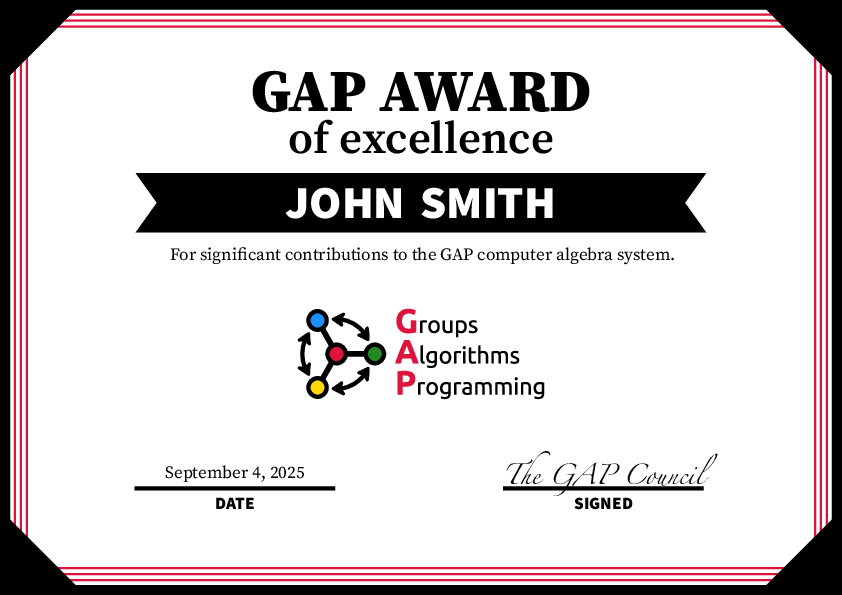
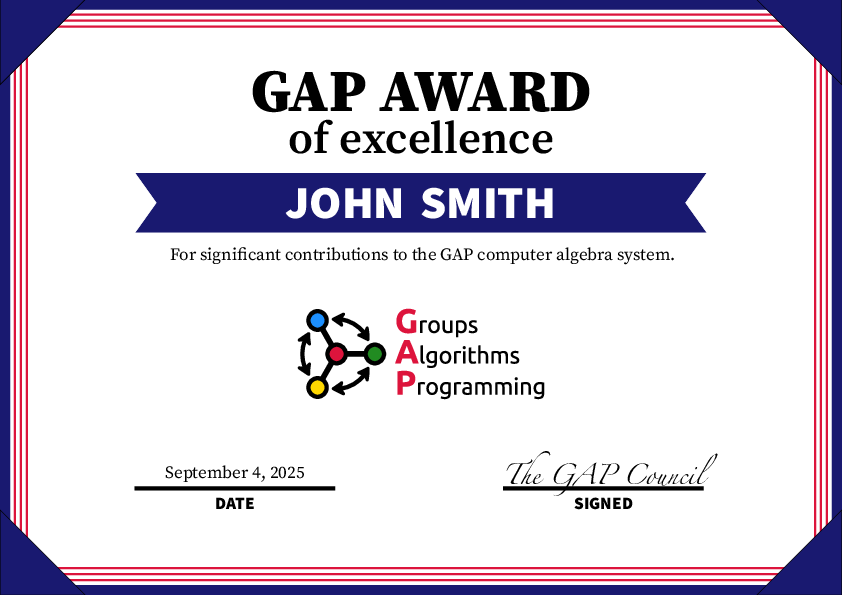
update

Changed region(s): [[0.0, 0.0, 1.0, 1.0], [0.1544, 0.2723, 0.8337, 0.3933]]

diff --git a/template.tex b/template.tex
@@ -71,7 +71,7 @@
 \begin{tikzpicture}
 	\node [
 		rectangle, % Node shape
-		fill=black, % Background color
+		fill=accentcolor, % Background color
 		text=white, % Text color
 		align=center, % Text alignment
 		text width=0.85\textwidth, % Maximum text width, shorter than the full line width so there is horizontal padding
